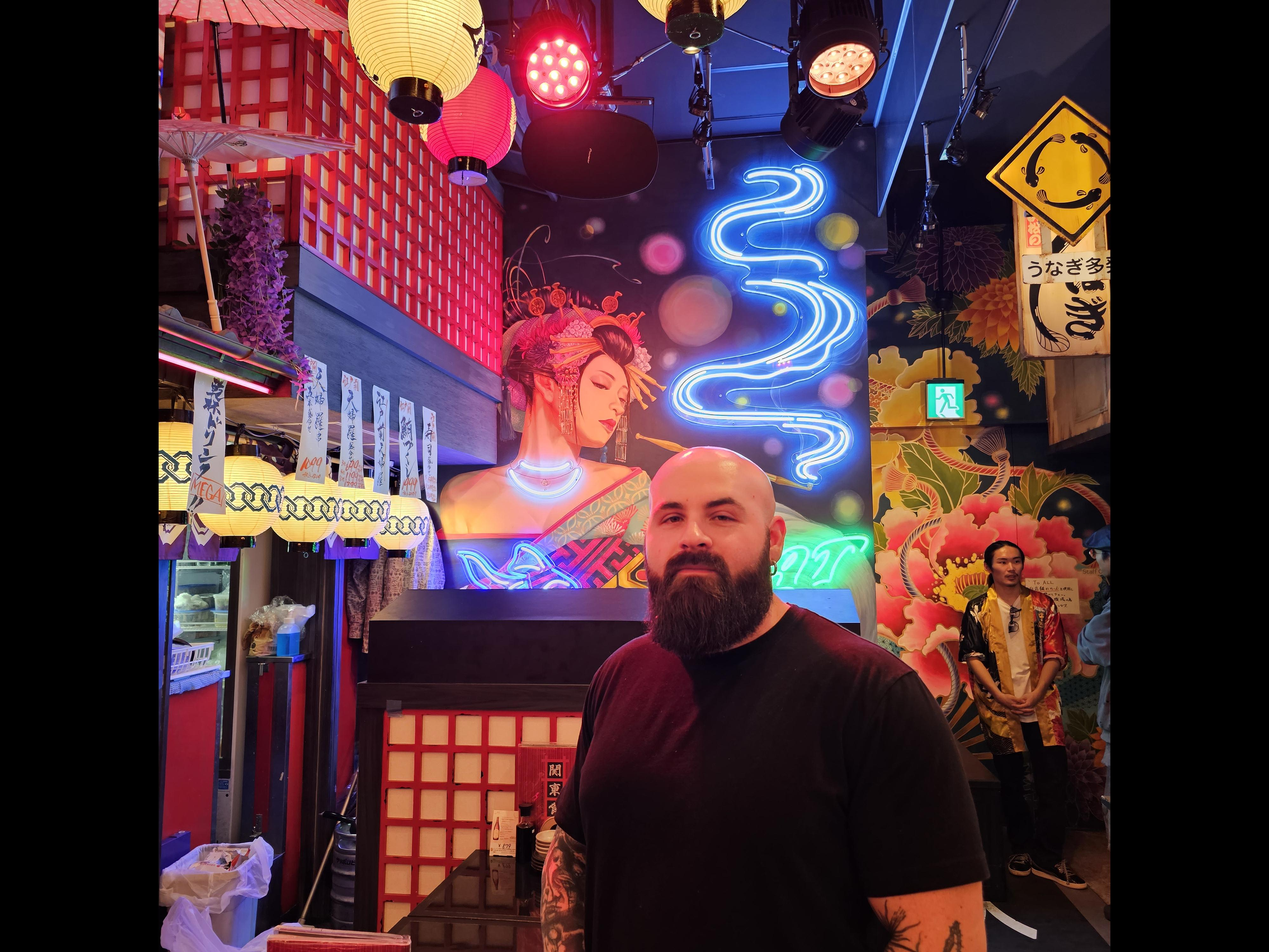
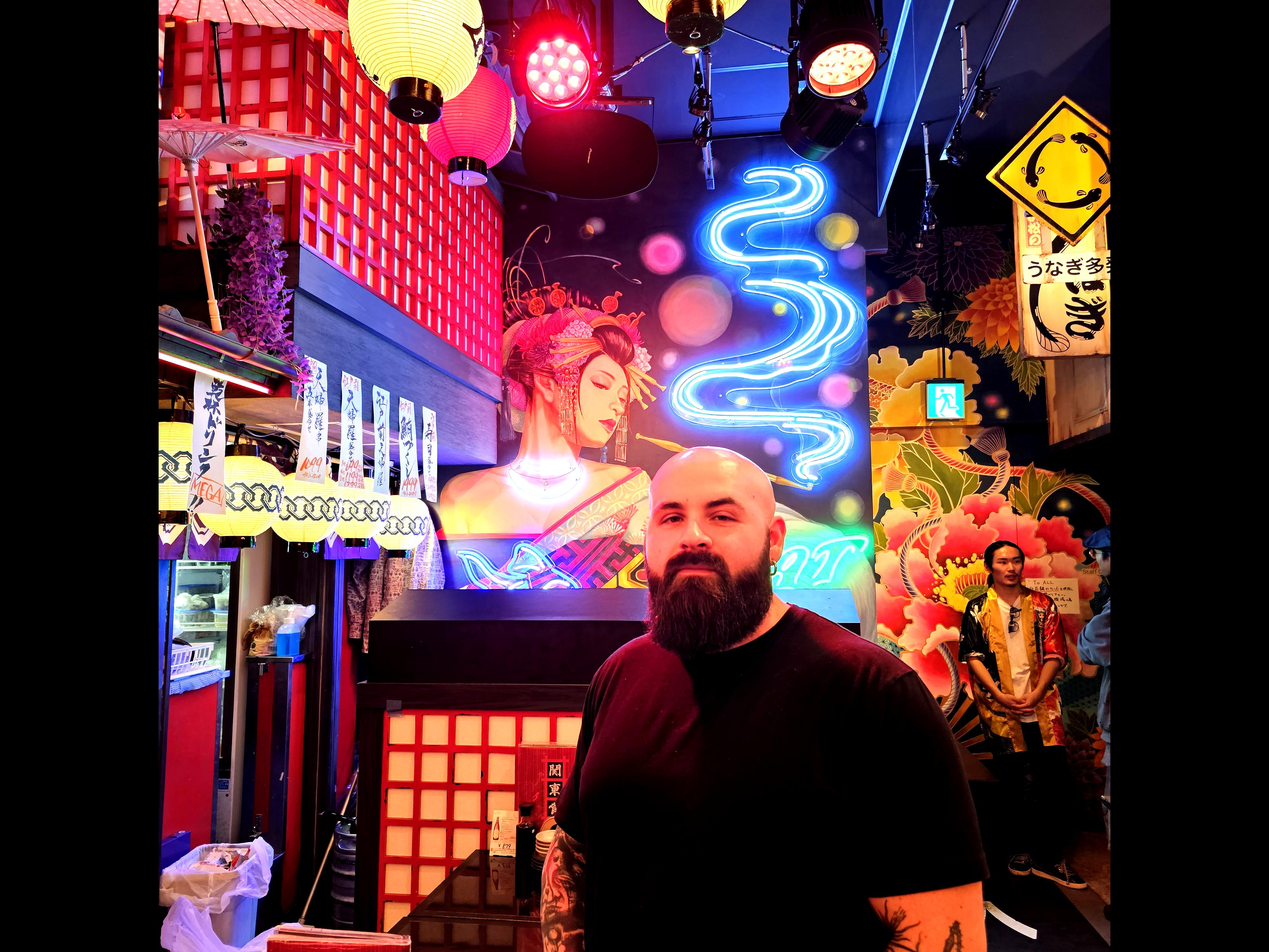
added contrast enhancer

diff --git a/photoEditor.py b/photoEditor.py
@@ -9,6 +9,10 @@ for filename in os.listdir(path):
 
     edit = img.filter(ImageFilter.SHARPEN).rotate(-90)
 
+    factor = 1.5
+    enhancer = ImageEnhance.Contrast(edit)
+    edit = enhancer.enhance(factor)
+
     clean_name = os.path.splitext(filename)[0]
 
     edit.save(f'.{pathOut}/{clean_name}_edited.jpg')
